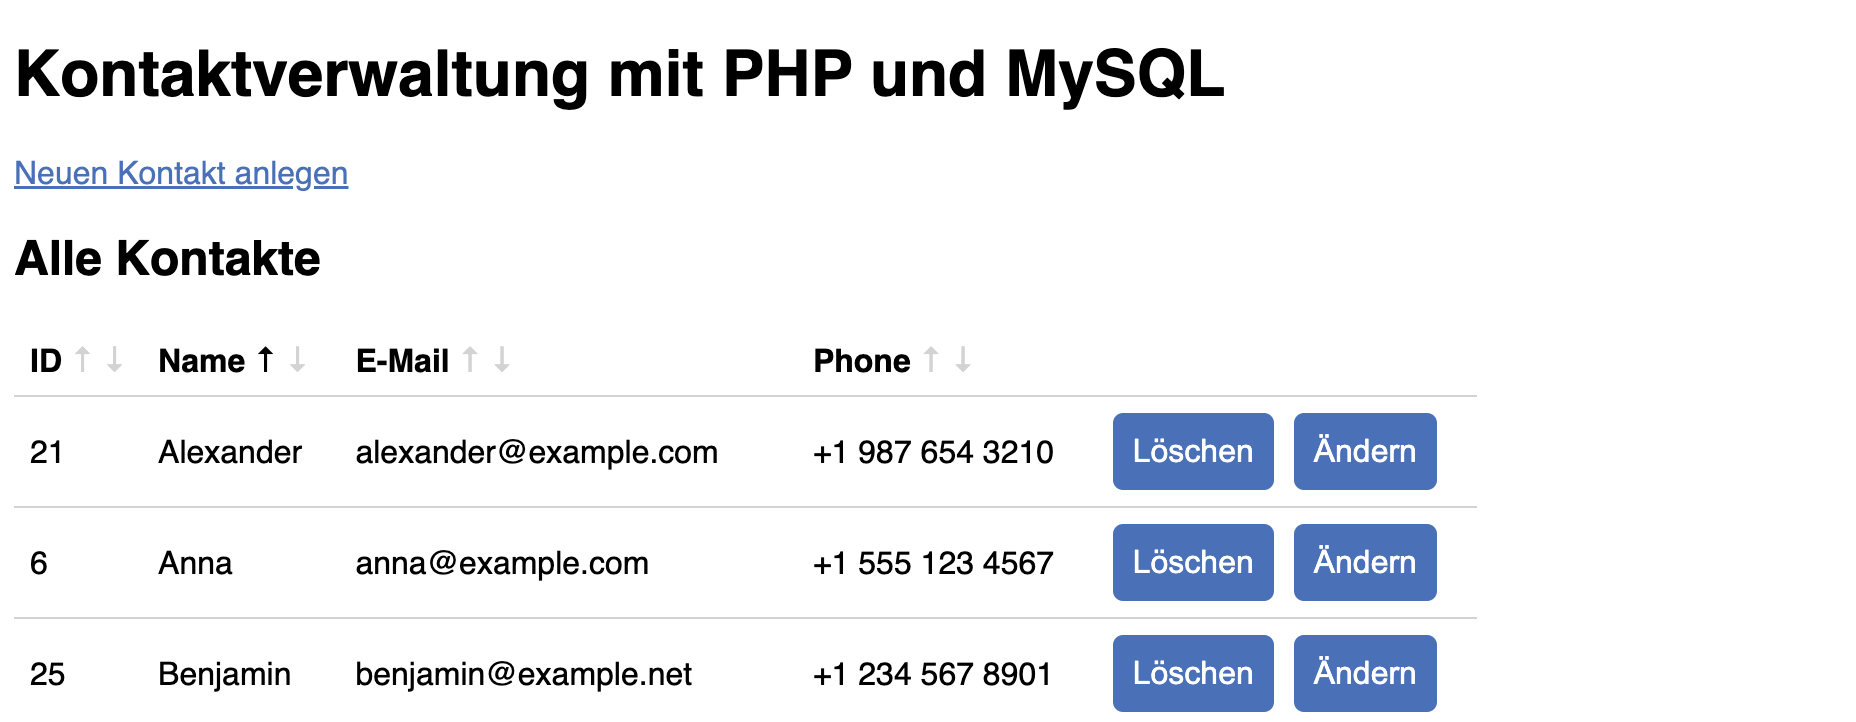
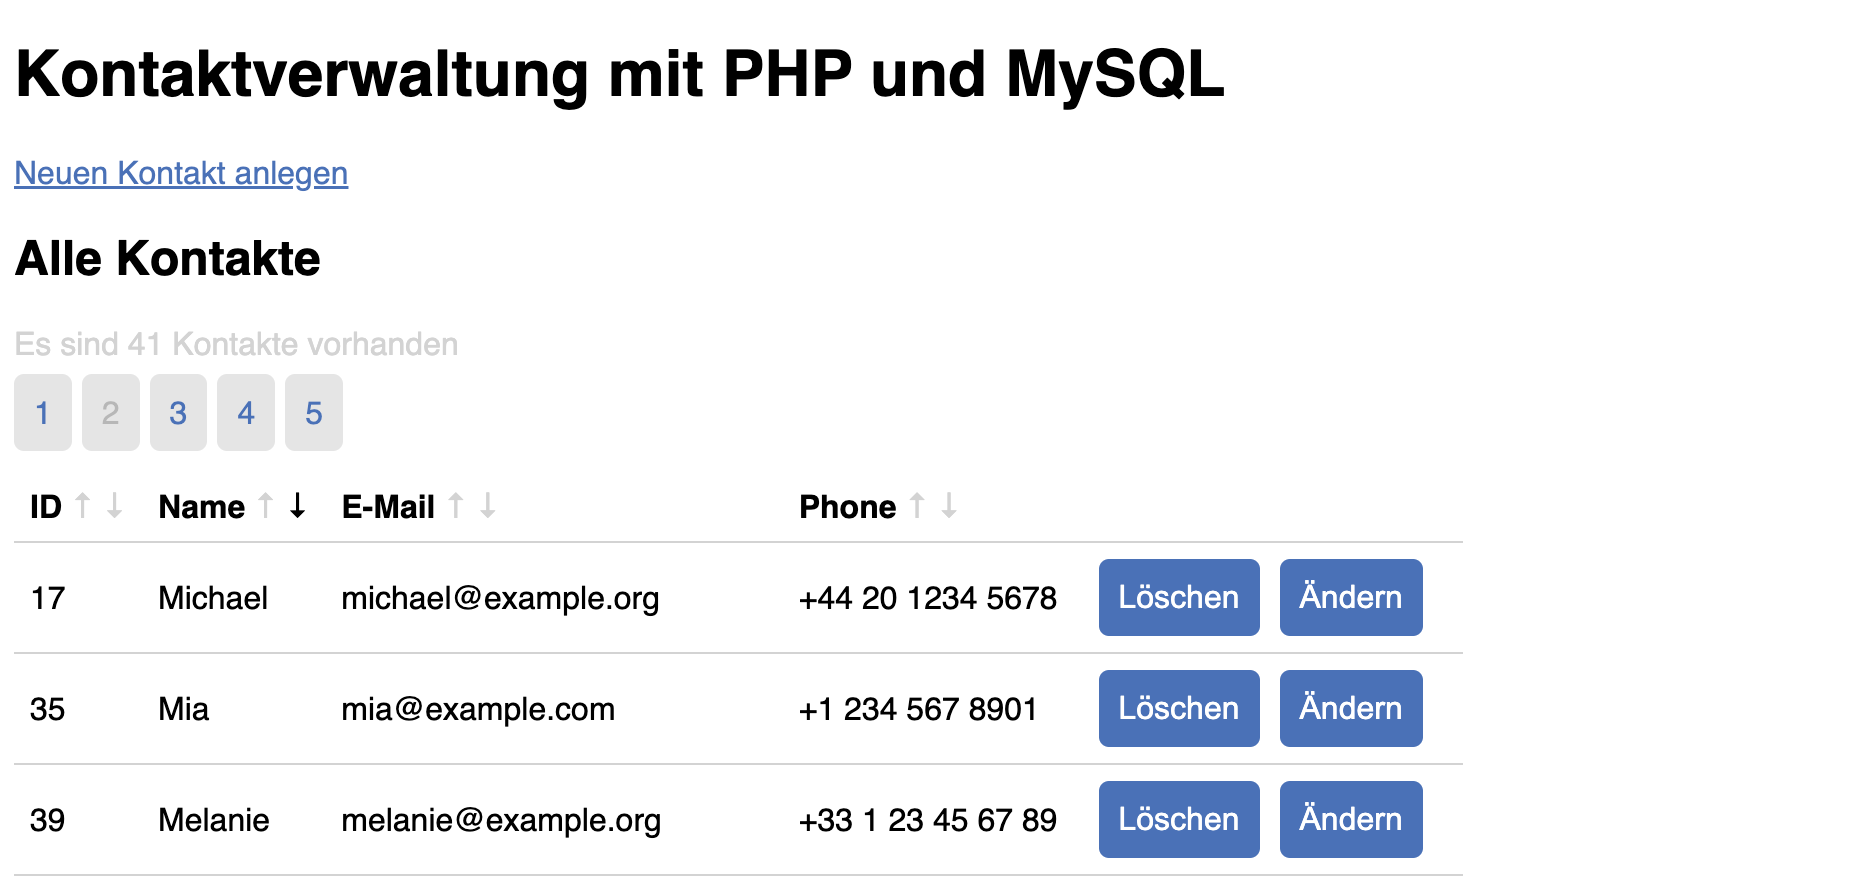
PHP MySQL Beispielbilder hinzugefügt

diff --git a/docs/webdev/php_mysql/40_mysql.md b/docs/webdev/php_mysql/40_mysql.md
@@ -283,19 +283,21 @@ echo "<input type='submit' name='update' value='Ändern'>";
 > <sup>*Ändern-Button in einem Formular*</sup><br><br>
 > ![](img/php_mysql_4_change.png)
 > <sup>*Formular zum Ändern von Benutzerdaten*</sup>
- 
 
-### 6. Zusatz: Suchfunktionalität
-{: .assignment }
-Erstelle eine PHP-Seite, die es dem Benutzer ermöglicht, nach Einträgen in einer MySQL-Datenbank zu suchen. Verwende das `SELECT`- Statement und die `LIKE`- Klausel, um Einträge abzurufen, die bestimmte Suchkriterien erfüllen.
 
-### 7. Zusatz: Sortierung und Paginierung
+
+### 6. Zusatz: Sortierung und Paginierung
 {: .assignment }
 Erweitere die PHP-Seite von Aufgabe 6, um Sortierung und Paginierung von Einträgen zu unterstützen. Verwende das `ORDER BY`- und `LIMIT`- Statement, um Einträge in einer bestimmten Reihenfolge anzuzeigen und nur einen Teil der Einträge auf einer Seite anzuzeigen.
 
-
 > ![](img/php_mysql_5_list.png)
-> <sup>*Beispielhafte Umsetzung der Sortierung*</sup><br><br>
+> <sup>*Beispielhafte Umsetzung der Sortierung*</sup>
+
+### 7. Zusatz: Suchfunktionalität
+{: .assignment }
+Erstelle eine PHP-Seite, die es dem Benutzer ermöglicht, nach Einträgen in einer MySQL-Datenbank zu suchen. Verwende das `SELECT`- Statement und die `LIKE`- Klausel, um Einträge abzurufen, die bestimmte Suchkriterien erfüllen.
+
+
 
 ## Ressourcen
 * [https://remotemysql.com/ - Free MySQL Hosting Site](https://remotemysql.com/){:target="_blank"}
